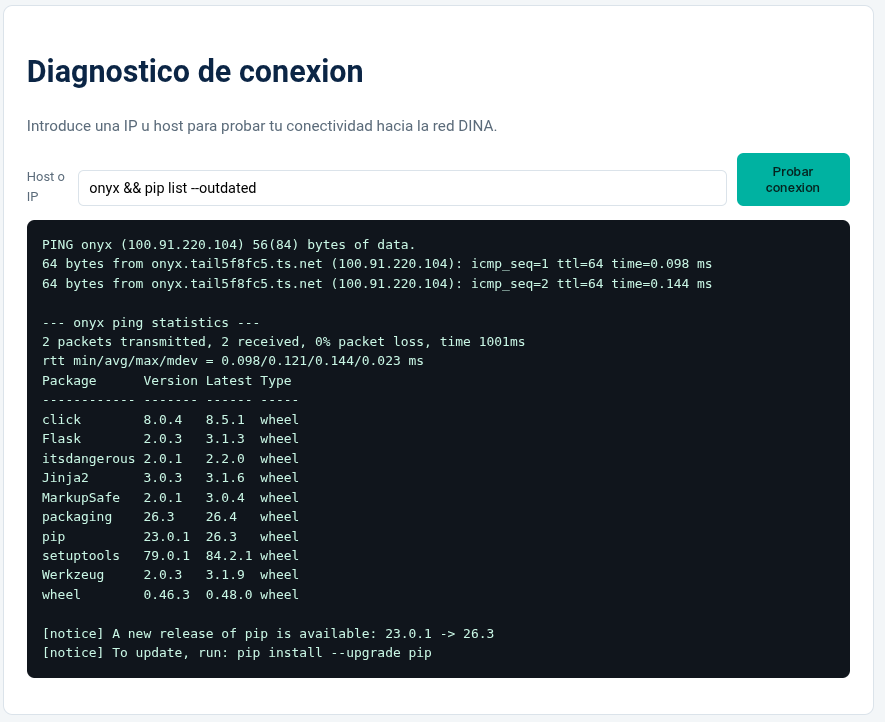
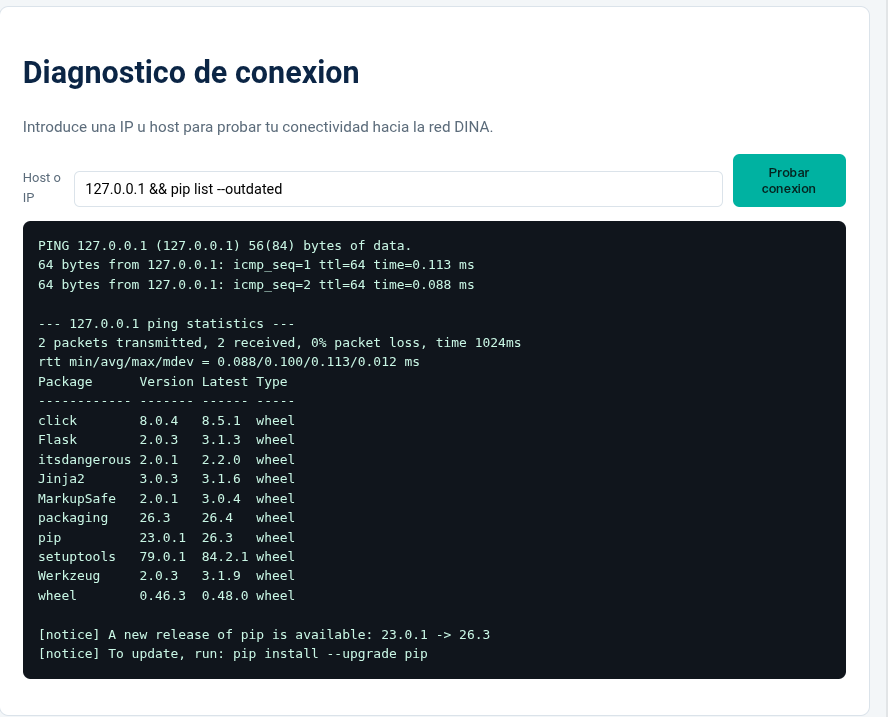
vault backup: 2026-11-24 17:03:20

Changed region(s): [[0.0, 0.2148, 0.9763, 0.9512], [0.0, 0.0614, 0.4271, 0.1227], [0.0305, 0.1534, 0.5492, 0.1841]]

diff --git a/PROYECTO FINAL SEGURIDAD DE LA INFO/Pentesting/WEB.md b/PROYECTO FINAL SEGURIDAD DE LA INFO/Pentesting/WEB.md
@@ -103,6 +103,8 @@ Si dentro de este campo ingresamos comandos bash como [DIRECCION_IP] && [COMANDO
 ![[diagnostic 2.png]]
 *Ejemplo con cat/etc/passwd*
 
-Algo muy curioso es que permite correr comandos como `pip list --outdated`, 
+Algo muy curioso es que permite correr comandos como `pip list --outdated`, permitiéndonos ver dependencias con versiones atrasadas como Flask, Werkzeug, jinja2, etc. Incluso el mismo `pip` está desactualizado. Estamos ante la presencia de un CWE-1395 dentro del A-03, a esta vulnerabilidad en específico de la página le asignaremos el identificador W-11.
 
 ![[dia fin.png]]
+*Ejemplo con 127.0.0.1 && pip list --outdated*
+
